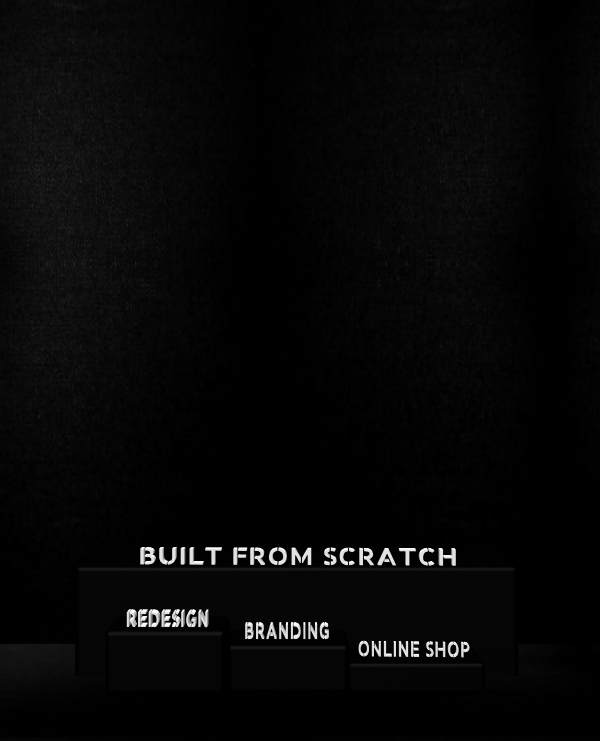
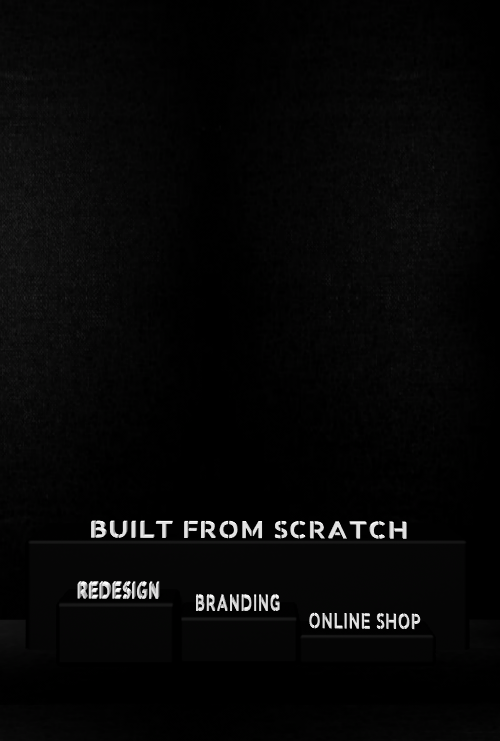
header title

Changed region(s): [[0.15, 0.6829, 0.81, 0.8691], [0.6, 0.807, 0.84, 0.9001]]

diff --git a/src/app/components/Header.jsx b/src/app/components/Header.jsx
@@ -24,9 +24,10 @@ const Container = styled.div({
 
 const HeaderTitle = styled.div({
   fontFamily: '"Keania One", sans-serif',
-  fontSize: '40px',
+  fontSize: '45px',
   margin: 'auto',
   marginTop: '-3rem',
+  lineHeight: '3rem',
   [`@media (min-width: ${breakpoints.md})`]: {
     fontSize: '30px',
     marginTop: '0rem',
